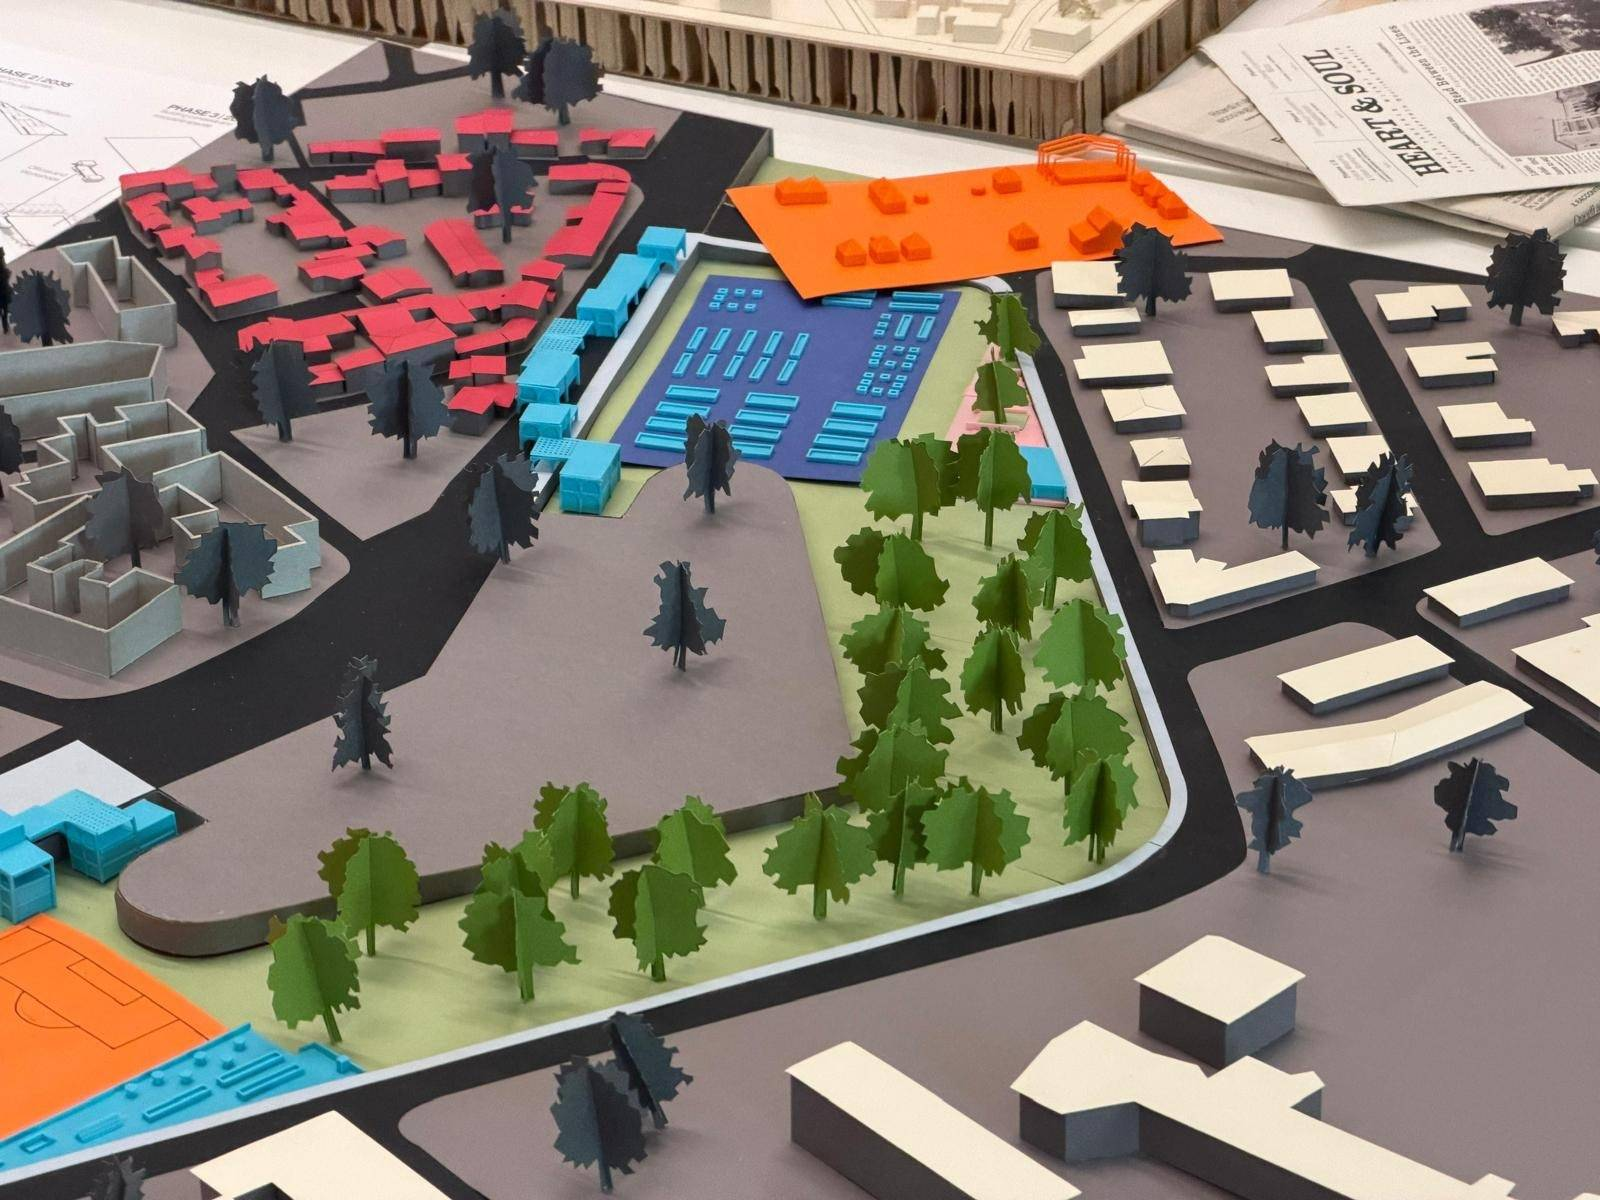
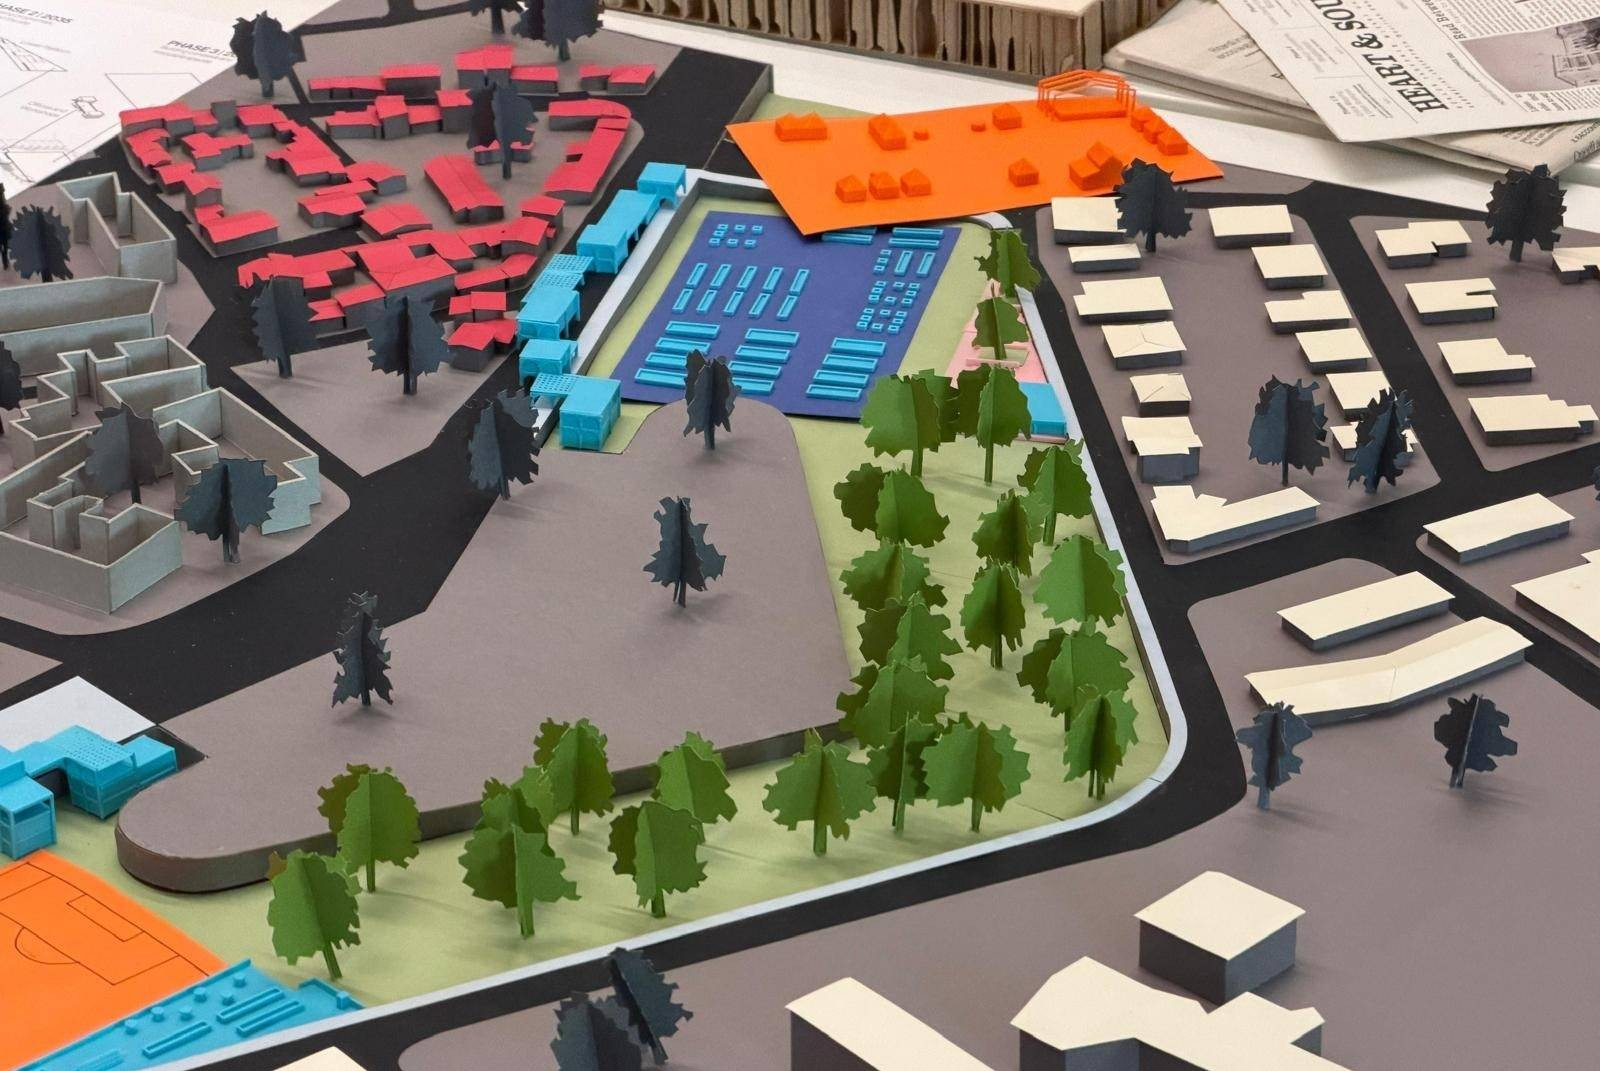
Add files via upload

diff --git a/projects.js b/projects.js
@@ -135,6 +135,7 @@ const PROJECTS = [
     card: "images/cross-border-chronotopia/card.jpg",
     cover: "images/cross-border-chronotopia/perspective-south.webp",
     heroPosition: "50% 55%",
+    scale: 0.75,                                           // gallery at three quarters of the page width, centred
     year: "2026",
     location: "Nicosia, Cyprus",
     type: "Academic project",
@@ -145,9 +146,11 @@ const PROJECTS = [
       "The project is situated in the city of Nicosia, the divided capital of the island of Cyprus. The historic centre of the city has been physically partitioned since 1963, following the first ethnic clashes between Greek Cypriots and Turkish Cypriots. The division led to a further decline in urban life and building stock, exacerbated by the Turkish invasion of 1974. The Buffer Zone – currently inaccessible and managed by the United Nations – creates peripheral conditions in the heart of the historical centre, acting as a harsh divide and an undeclared European border."
     ],
     content: [
+      {"heading": "Context", "text": "Nicosia, the divided capital of Cyprus, is split by a Buffer Zone managed by the United Nations, an undeclared European border in the heart of the historic centre. These drawings place the city within its heritage, its military territory and its patterns of migration.", "size": "half", "align": "center"},
       {"src": "images/cross-border-chronotopia/manifesto.jpg", "caption": "Chronotopic urban planning in the shadow of military spolia around the UN Buffer Zone", "w": 2400, "h": 2244, "size": "large", "align": "center"},
       {"src": "images/cross-border-chronotopia/cyprus-map.webp", "caption": "Heritage and Geopolitical Military Territorial Map of Cyprus", "w": 2758, "h": 1866, "size": "wide"},
       {"src": "images/cross-border-chronotopia/immigration.webp", "caption": "Migration to and from Cyprus", "w": 2000, "h": 1375, "size": "large", "align": "center"},
+      {"heading": "Urban Interventions", "text": "Along and across the Buffer Zone, underused sites are reclaimed as shared ground. Eight interventions link co-production, culture, ecology and green mobility across the North and South.", "size": "half", "align": "center"},
       {"src": "images/cross-border-chronotopia/strategy-map.webp", "caption": "Nicosia Urban Redevelopment Plan", "w": 2879, "h": 3208, "size": "large", "align": "center"},
       {"heading": "Co-Production Hub", "text": "Softening the border by amplifying a collaborative approach where service providers and users work together as equals to design, create, and deliver services or products, shifting from passive consumption to active participation.", "size": "quarter"},
       {"heading": "Socio-Cultural Space", "text": "Creating a dynamic and intangible environment where social interactions, shared values, cultural norms, and physical places merge. Implementing temporary, participatory, and flexible interventions to bridge the city’s deep socio-political divide and revitalize underused areas. Key strategies include using pop-up structures, and community events to transform underused sites into a shared co-living space.", "size": "quarter"},
@@ -160,6 +163,7 @@ const PROJECTS = [
       {"heading": "Strategy", "text": "Acting pragmatically with a twin-city strategy, the interventions are mirrored across the North and South. If the border condition continues, each space can operate independently as a finalized and operational site. However, if the buffer-zone reopens, the two spaces can join together with an adaptable park that goes around the historic walls. Furthermore, the upper and lower streets will also link together.", "size": "small"},
       {"src": "images/cross-border-chronotopia/actors.webp", "caption": "Actors", "w": 1971, "h": 2055, "size": "small"},
       {"src": "images/cross-border-chronotopia/icons.webp", "caption": "Community building", "w": 1691, "h": 2219, "size": "small"},
+      {"heading": "The Site", "text": "Five spaces on either side of the border are identified and integrated, each carrying the same set of interventions.", "size": "half", "align": "center"},
       {"src": "images/cross-border-chronotopia/site-plan.webp", "caption": "Site plan", "w": 2542, "h": 3707, "size": "half"},
       {"text": ["In this specific context, five spaces are identified and integrated.", "1. The Upper City (South)", "2. The Lower City (South)", "3. The Upper City (North)", "4. The Lower City (North)", "5. The Scarp", "The interventions on each site include:", "1. Offices for social organizations", "2. Program spaces for workshops", "3. Mobility improvements to and from the site", "4. Restrooms and change-rooms", "5. Adaptable seating", "6. Cafe", "7. Lookout points"], "size": "half"},
       {"heading": "North Nicosia", "text": "The creation of space in the North focuses on openness along the ground floor to draw visitors towards the site. A key consideration was the importance of observation. Voids were not filled but reprogrammed to be used as spaces that facilitate observation and participation. A green mobility corridor, which provides protected bike lanes and pedestrian access, also increases safety around the site.", "size": "small"},
@@ -169,8 +173,9 @@ const PROJECTS = [
       {"src": "images/cross-border-chronotopia/south-phasing.webp", "caption": "South Nicosia, phasing", "w": 3200, "h": 1713, "size": "large"},
       {"src": "images/cross-border-chronotopia/axo-south.webp", "caption": "South Nicosia, aerial axonometric", "w": 3200, "h": 2066, "size": "wide"},
       {"src": "images/cross-border-chronotopia/perspective-north.webp", "caption": "North Nicosia, perspective", "w": 3200, "h": 2263, "size": "wide"},
+      {"heading": "Models", "text": "Physical models of the North and South sites.", "size": "half", "align": "center"},
       {"src": "images/cross-border-chronotopia/model-1.jpg", "caption": "Model", "w": 1600, "h": 1071, "size": "half"},
-      {"src": "images/cross-border-chronotopia/model-2.jpg", "caption": "Model", "w": 1600, "h": 1200, "size": "half"}
+      {"src": "images/cross-border-chronotopia/model-2.jpg", "caption": "Model", "w": 1600, "h": 1071, "size": "half"}
     ]
   },
   {
